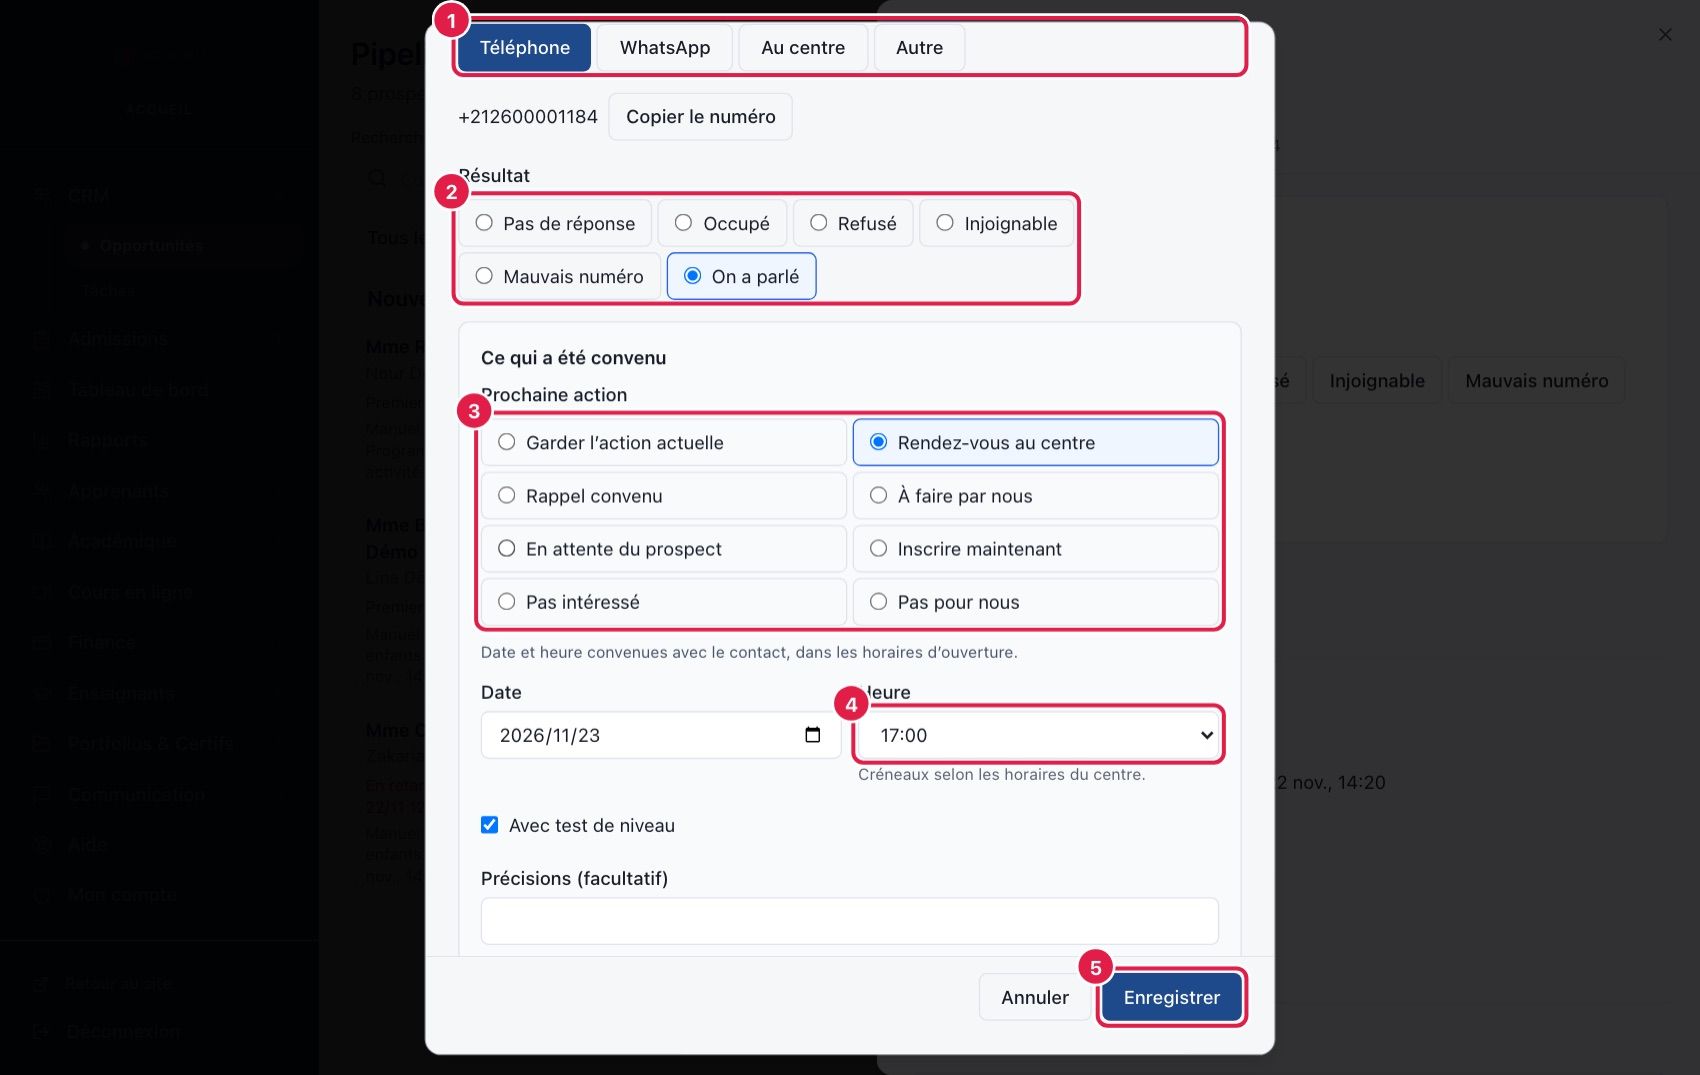
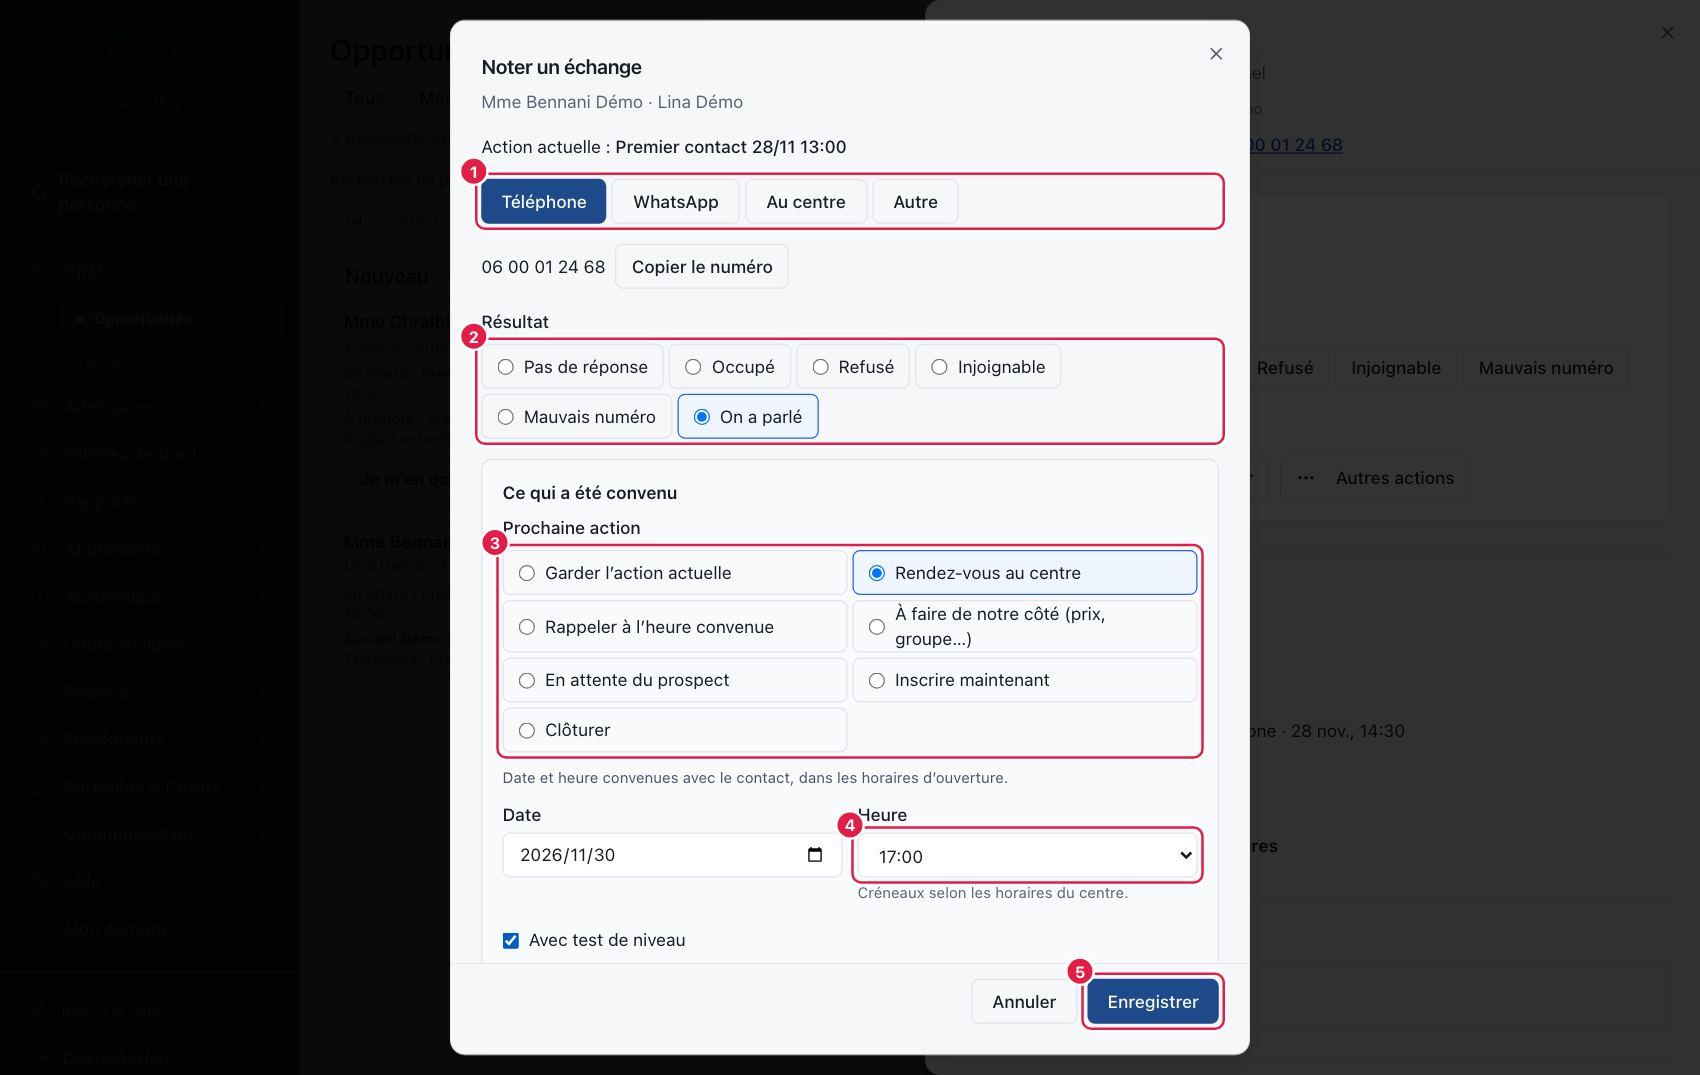
docs(help): Aide CRM screens after #227 — guide 2.7 (Tier 2, help page only) (#230)
* docs(help): Aide CRM screens after #227 — real « Autres actions » menu, numbers at the top of the panel, four screenshots retaken (guide 2.7; Tier 2, help page only)

- C2: « Autres actions » lists Changer de responsable, Confier cette action à…,
  Modifier la fiche, Ajouter un enfant, Clôturer le prospect.
- C2: Tél. and WhatsApp are shown at the top of the prospect panel; the WhatsApp
  number opens WhatsApp; « Copier le numéro » in Noter un échange stays as a second way.
- C5: exact label « À faire de notre côté (prix, groupe…) ».
- C1: s05 legend in screen order (Programme, Canal, Origine).
- s02-drawer, s03-call, s03b-changer, s05-manual retaken on a private local stack
  with synthetic « Démo » data, 1700 × 1075, numbered markers matching the legends.
- Version 2.7, 28 novembre 2026.

* docs(help): s02 legend lists « Autres actions » in screen order (review F1)

---------

diff --git a/src/app/(admin)/helpdesk/GuideContent.jsx b/src/app/(admin)/helpdesk/GuideContent.jsx
@@ -12,8 +12,8 @@ export default function GuideContent() {
 <h1>Guide Accueil</h1>
 <p className="lead">Tout ce qu’il faut savoir pour travailler dans votre espace de la plateforme&nbsp;: suivre les prospects jusqu’à l’inscription, puis gérer au quotidien les apprenants, les paiements, les groupes, les présences et les enseignants.</p>
 <ul className="chips">
-<li>Version 2.6</li>
-<li>22 novembre 2026</li>
+<li>Version 2.7</li>
+<li>28 novembre 2026</li>
 <li>Heures de Casablanca</li>
 <li>Captures sur données fictives</li>
 </ul>
@@ -382,13 +382,13 @@ export default function GuideContent() {
 </li>
 </ol>
 <figure className="fig">
-<Image src="/helpdesk/s05-manual.jpg" width={1700} height={1075} alt="Formulaire Ajouter un prospect rempli, origine Visite au centre, avec la section Premier échange" unoptimized tabIndex={0} role="button" /><figcaption>Le formulaire <span className="ui">Ajouter un prospect</span>, pour une personne venue au centre.</figcaption>
+<Image src="/helpdesk/s05-manual.jpg" width={1700} height={1075} alt="Formulaire Ajouter un prospect rempli, canal Visite au centre, origine Passage devant le centre, avec la section Premier échange" unoptimized tabIndex={0} role="button" /><figcaption>Le formulaire <span className="ui">Ajouter un prospect</span>, pour une personne venue au centre.</figcaption>
 <ol className="legend">
 <li><span className="ui">Nom du contact</span>&nbsp;: la personne qui appelle ou qui passe (obligatoire).</li>
 <li><span className="ui">Téléphone</span>&nbsp;: la plateforme le met au format international (+212…). Facultatif, mais sans numéro valide vous ne pourrez pas appeler depuis la fiche.</li>
 <li><span className="ui">Nom de l’apprenant</span> et <span className="ui">Âge</span> (facultatif). Laissé vide, la case <span className="ui">C’est la même personne</span> est cochée&nbsp;: un adulte qui s’inscrit pour lui-même est le contact et l’apprenant.</li>
-<li><span className="ui">Canal</span>&nbsp;: Téléphone, Visite au centre, WhatsApp ou Autre (comment ce premier échange a eu lieu).</li>
 <li><span className="ui">Programme</span> (facultatif)&nbsp;: choisi dans la liste du catalogue, ou «&nbsp;À préciser&nbsp;». Une précision libre reste possible.</li>
+<li><span className="ui">Canal</span>&nbsp;: Téléphone, Visite au centre, WhatsApp ou Autre (comment ce premier échange a eu lieu).</li>
 <li><span className="ui">Origine</span> (facultatif)&nbsp;: comment la personne a connu le centre (Instagram, Facebook, Site web, Google, Recommandation, Passage devant le centre, Appel entrant, Ancien élève, Autre). Pour «&nbsp;Recommandation&nbsp;», indiquez qui a recommandé le centre dans <span className="ui">Recommandé par</span>.</li>
 <li><b>Premier échange</b>&nbsp;: ce qui a été convenu, par exemple «&nbsp;En attente du prospect&nbsp;» pour quelqu’un qui reviendra.</li>
 </ol>
@@ -420,16 +420,18 @@ export default function GuideContent() {
 <p className="when">La prochaine action est <b>Premier contact</b>, <b>Appel de suivi</b> ou <b>Rappel convenu</b>, ou vous appelez pour une autre raison.</p>
 </header>
 <figure className="fig narrow">
-<Image src="/helpdesk/s02-drawer.jpg" width={1700} height={1075} alt="Fiche d’un prospect avec l’encadré Prochaine action, les résultats d’appel, Noter un échange, Changer et Autres actions" unoptimized tabIndex={0} role="button" /><figcaption>La fiche du prospect s’ouvre sur le côté en cliquant sur son nom.</figcaption>
+<Image src="/helpdesk/s02-drawer.jpg" width={1700} height={1075} alt="Fiche d’un prospect avec le téléphone et le WhatsApp en haut, l’encadré Prochaine action, les résultats d’appel, Noter un échange, Changer et Autres actions" unoptimized tabIndex={0} role="button" /><figcaption>La fiche du prospect s’ouvre sur le côté en cliquant sur son nom.</figcaption>
 <ol className="legend">
+<li>En haut de la fiche&nbsp;: <b>Tél.</b> et <b>WhatsApp</b>, les numéros du contact. Le numéro WhatsApp est un lien&nbsp;: un clic ouvre WhatsApp. Sans numéro WhatsApp, la fiche indique «&nbsp;Indisponible&nbsp;».</li>
 <li><b>Prochaine action</b>&nbsp;: ce qui est prévu, quand, et qui s’en occupe. «&nbsp;En retard&nbsp;» s’affiche si l’heure est passée.</li>
 <li><b>Appel</b>&nbsp;: <span className="ui">Pas de réponse</span> s’enregistre en un clic&nbsp;; les autres résultats ouvrent <span className="ui">Noter un échange</span>.</li>
 <li><span className="ui">Noter un échange</span> (il s’est passé quelque chose) et <span className="ui">Changer</span> (ce qui était prévu change).</li>
-<li><span className="ui">Autres actions</span>&nbsp;: clôturer, attribuer un responsable, réattribuer l’action.</li>
+<li><span className="ui">Autres actions</span>&nbsp;: <span className="ui">Modifier la fiche</span>, <span className="ui">Ajouter un enfant</span>, <span className="ui">Changer de responsable</span>, <span className="ui">Confier cette action à…</span>, <span className="ui">Clôturer le prospect</span>. Les trois derniers seulement pour un prospect en cours, et <span className="ui">Confier cette action à…</span> seulement s’il a une prochaine action.</li>
 </ol>
 </figure>
 <ol className="steps">
-<li><p>Ouvrez la fiche (clic sur le nom dans <span className="menu">Tâches</span>, sur une carte ou dans la liste). Pour voir le numéro, cliquez sur <span className="ui">Noter un échange</span>&nbsp;: <span className="ui">Copier le numéro</span>, puis passez l’appel avec votre téléphone ou votre standard. Sur un téléphone tactile, un lien <span className="ui">Appeler</span> apparaît.</p>
+<li><p>Ouvrez la fiche (clic sur le nom dans <span className="menu">Tâches</span>, sur une carte ou dans la liste). Le téléphone et le numéro WhatsApp du contact s’affichent en haut de la fiche, sous son nom (<b>Tél.</b> et <b>WhatsApp</b>). Passez l’appel avec votre téléphone ou votre standard. Pour écrire sur WhatsApp, cliquez sur le numéro WhatsApp&nbsp;: WhatsApp s’ouvre.</p>
+<p>Autre moyen&nbsp;: cliquez sur <span className="ui">Noter un échange</span>, puis <span className="ui">Copier le numéro</span>. Sur un téléphone tactile, un lien <span className="ui">Appeler</span> apparaît à côté du numéro.</p>
 </li>
 <li><p><b>Personne ne répond&nbsp;?</b> Cliquez sur <span className="ui">Pas de réponse</span>, dans la fiche ou directement sur la ligne de <span className="menu">Tâches</span>. C’est enregistré tout de suite («&nbsp;Pas de réponse enregistré&nbsp;»)&nbsp;: il n’y a rien d’autre à remplir.</p>
 </li>
@@ -666,7 +668,7 @@ export default function GuideContent() {
 <ol className="steps">
 <li><p>Dans la fiche ou sur la ligne de <span className="menu">Tâches</span>, cliquez sur <span className="ui">Changer</span>.</p>
 </li>
-<li><p>Choisissez la nouvelle prochaine action&nbsp;: <span className="ui">Rendez-vous au centre</span> (pour un prospect <span className="st st-qual">Qualifié</span>, ou pour déplacer un rendez-vous&nbsp;; sinon, notez l’échange avec <span className="ui">On a parlé</span>, qui qualifie le prospect), <span className="ui">Rappeler à l’heure convenue</span>, <span className="ui">À faire de notre côté</span>, <span className="ui">Rappeler plus tard, sans heure promise</span>, <span className="ui">En attente du prospect</span>, ou <span className="ui">Clôturer</span> avec un motif.</p>
+<li><p>Choisissez la nouvelle prochaine action&nbsp;: <span className="ui">Rendez-vous au centre</span> (pour un prospect <span className="st st-qual">Qualifié</span>, ou pour déplacer un rendez-vous&nbsp;; sinon, notez l’échange avec <span className="ui">On a parlé</span>, qui qualifie le prospect), <span className="ui">Rappeler à l’heure convenue</span>, <span className="ui">À faire de notre côté (prix, groupe…)</span>, <span className="ui">Rappeler plus tard, sans heure promise</span>, <span className="ui">En attente du prospect</span>, ou <span className="ui">Clôturer</span> avec un motif.</p>
 </li>
 <li><p>Pour simplement déplacer un rendez-vous ou un rappel convenu, gardez le même choix et changez la date&nbsp;: l’heure convenue est gardée.</p>
 </li>
@@ -2146,7 +2148,7 @@ export default function GuideContent() {
 </div>
 </div>
 </section>
-<footer className="foot"><p>Guide Accueil, version 2.6, 27 novembre 2026. Il décrit la plateforme à cette date. Les captures montrent des données fictives. Signalez à la direction tout écart entre ce guide et l’écran.</p>
+<footer className="foot"><p>Guide Accueil, version 2.7, 28 novembre 2026. Il décrit la plateforme à cette date. Les captures montrent des données fictives. Signalez à la direction tout écart entre ce guide et l’écran.</p>
 <a className="backtop" href="#prise-en-main">Retour en haut</a></footer>
     </>
   );
